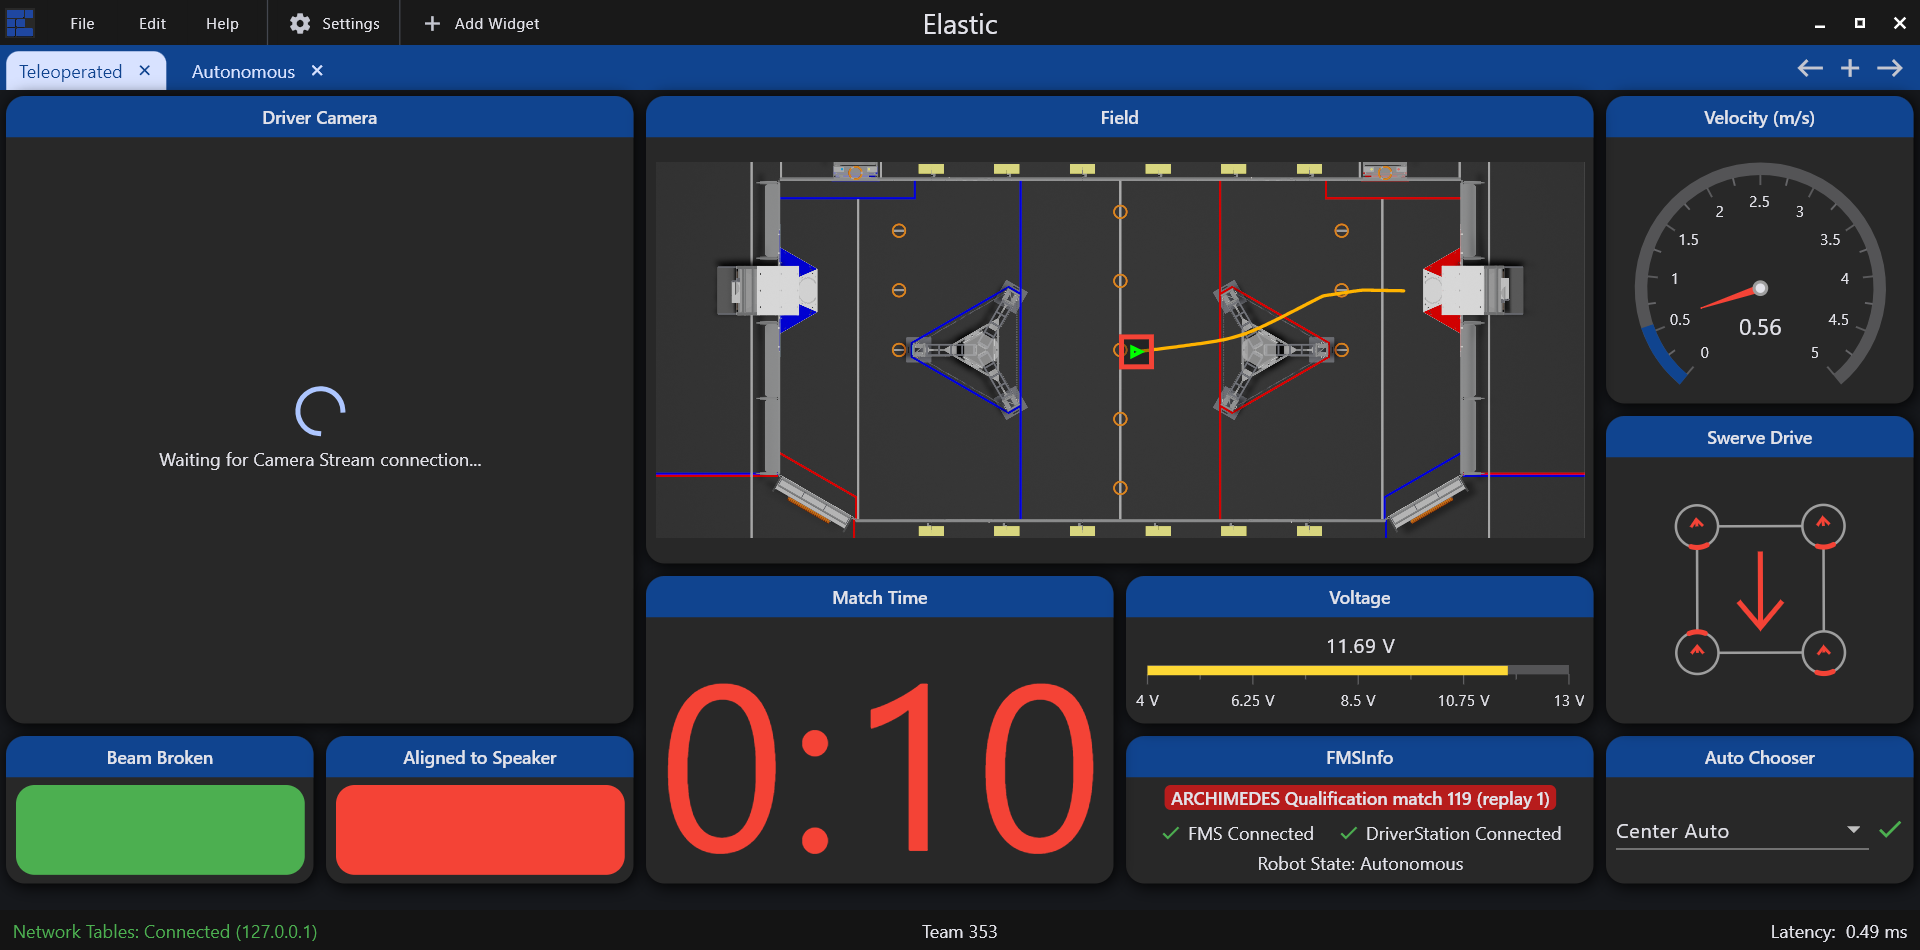
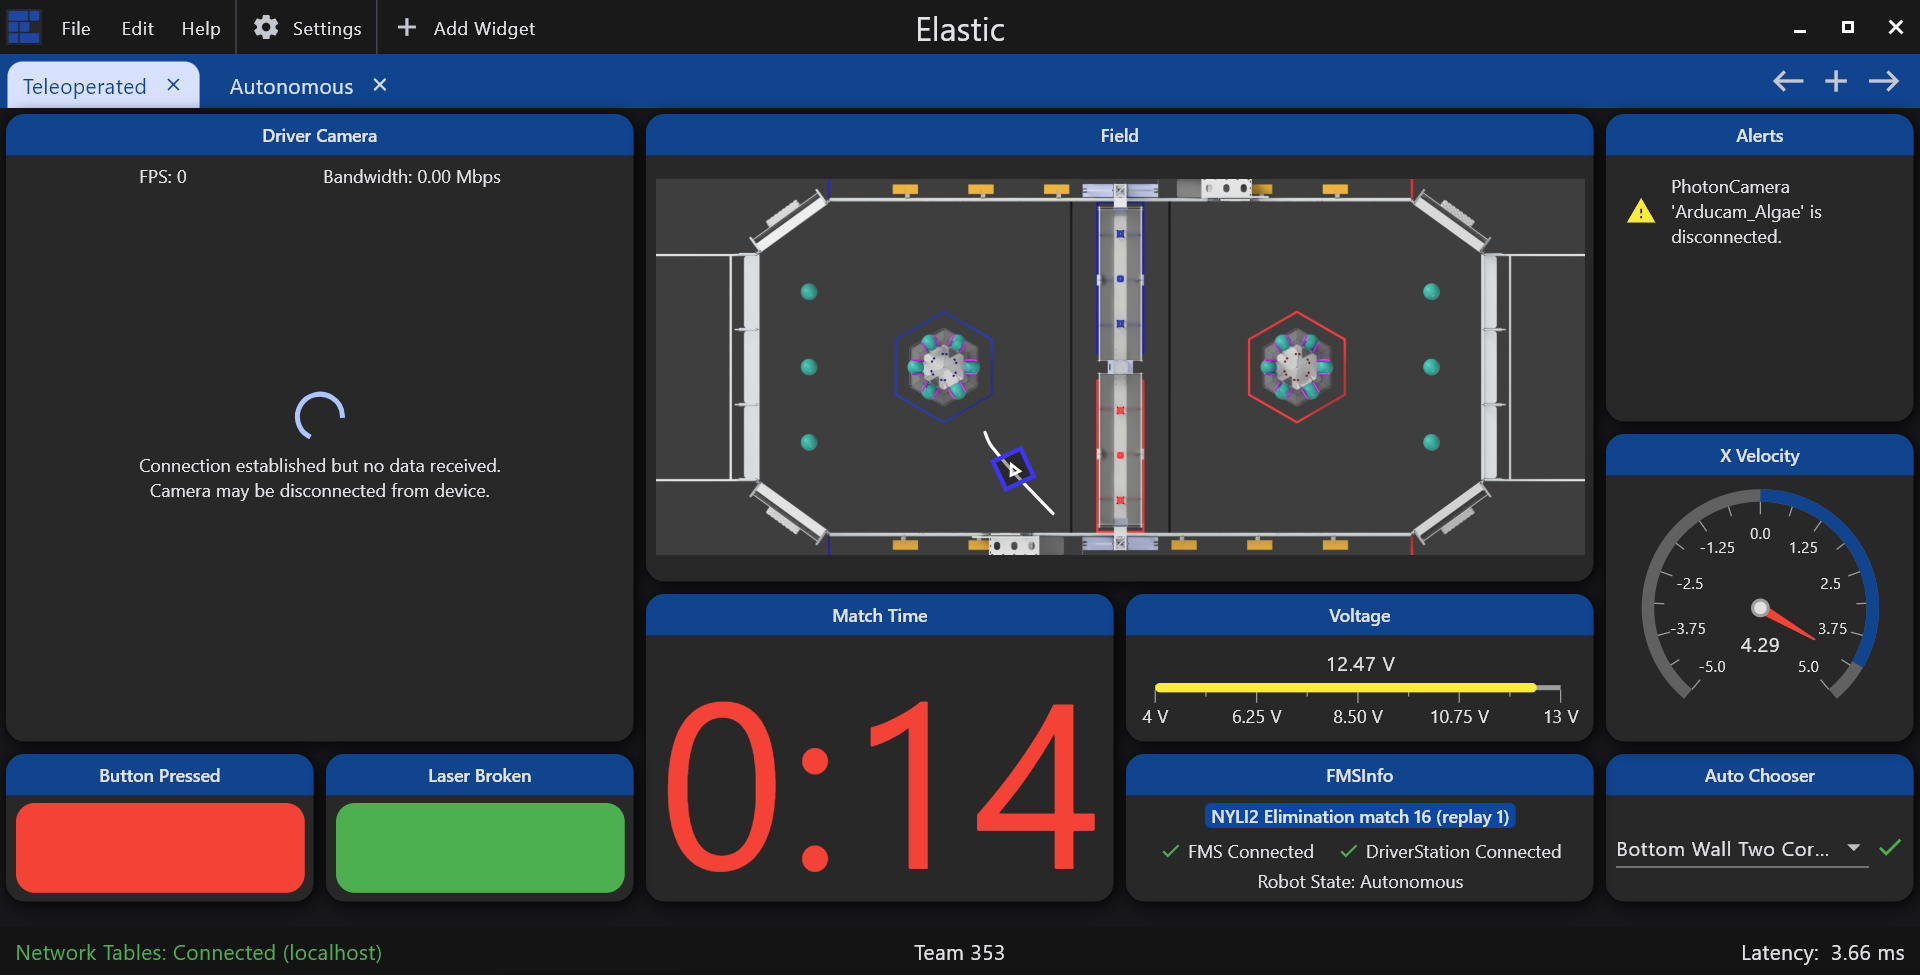
Update README (#305)

diff --git a/README.md b/README.md
@@ -4,11 +4,9 @@
 
 A simple and modern dashboard for FRC.
 
-Download files can be found [here](https://github.com/Gold872/elastic-dashboard/releases/latest), the supported platforms are Windows, MacOS, and Linux.
+Download files can be found [here](https://github.com/Gold872/elastic-dashboard/releases/latest), the supported platforms are Windows, MacOS, Linux, and Web.
 
-_Important Notes/Warnings:_ 
-* _Your robot code must be using WPILib version 2023.3.1 or higher, otherwise you might not be able to add widgets._
-    * _WPILib v2023.3.1 fixed a bug in Network Tables where values wouldn't be sent to a client after subscribing topics only. Since the program subscribes topics only to everything, any widget that is built using a sendable will not be possible to add since the program will not be able to retrieve the widget's type. See https://github.com/wpilibsuite/allwpilib/pull/4991 for more info._
+Try it in your browser! https://gold872.github.io/elastic-dashboard/
 
 ## About
 
@@ -32,3 +30,9 @@ This dashboard wouldn't have been made without the help and inspiration from the
 * [Oh yes 10 FPS](https://github.com/oh-yes-0-fps) from Team 3173
 * [Jason](https://github.com/jasondaming) and [Peter](https://github.com/PeterJohnson) from WPILib
 * All mentors and advisors of Team 353, the POBots
+
+## Contributors
+
+<a href="https://github.com/Gold872/elastic-dashboard/graphs/contributors">
+  <img src="https://contrib.rocks/image?repo=Gold872/elastic-dashboard" />
+</a>
